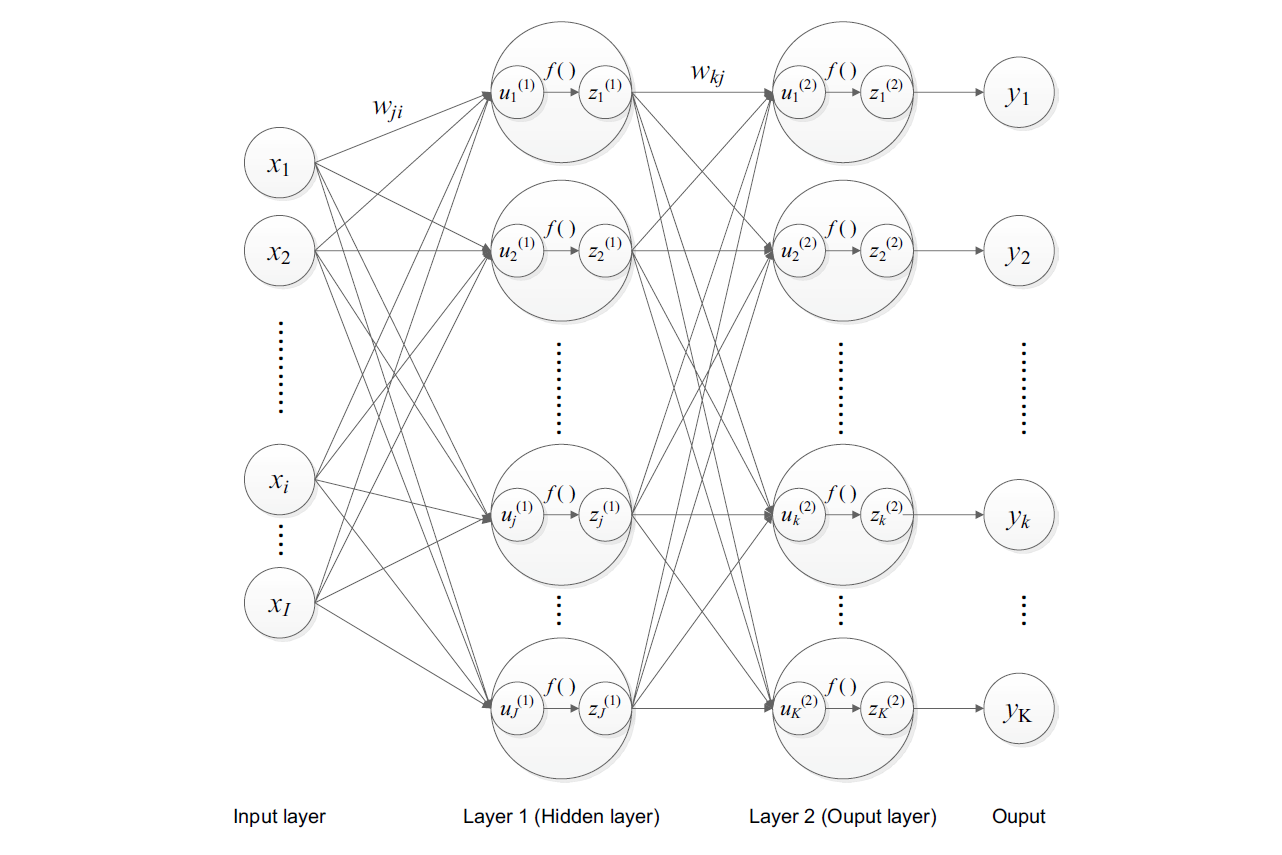
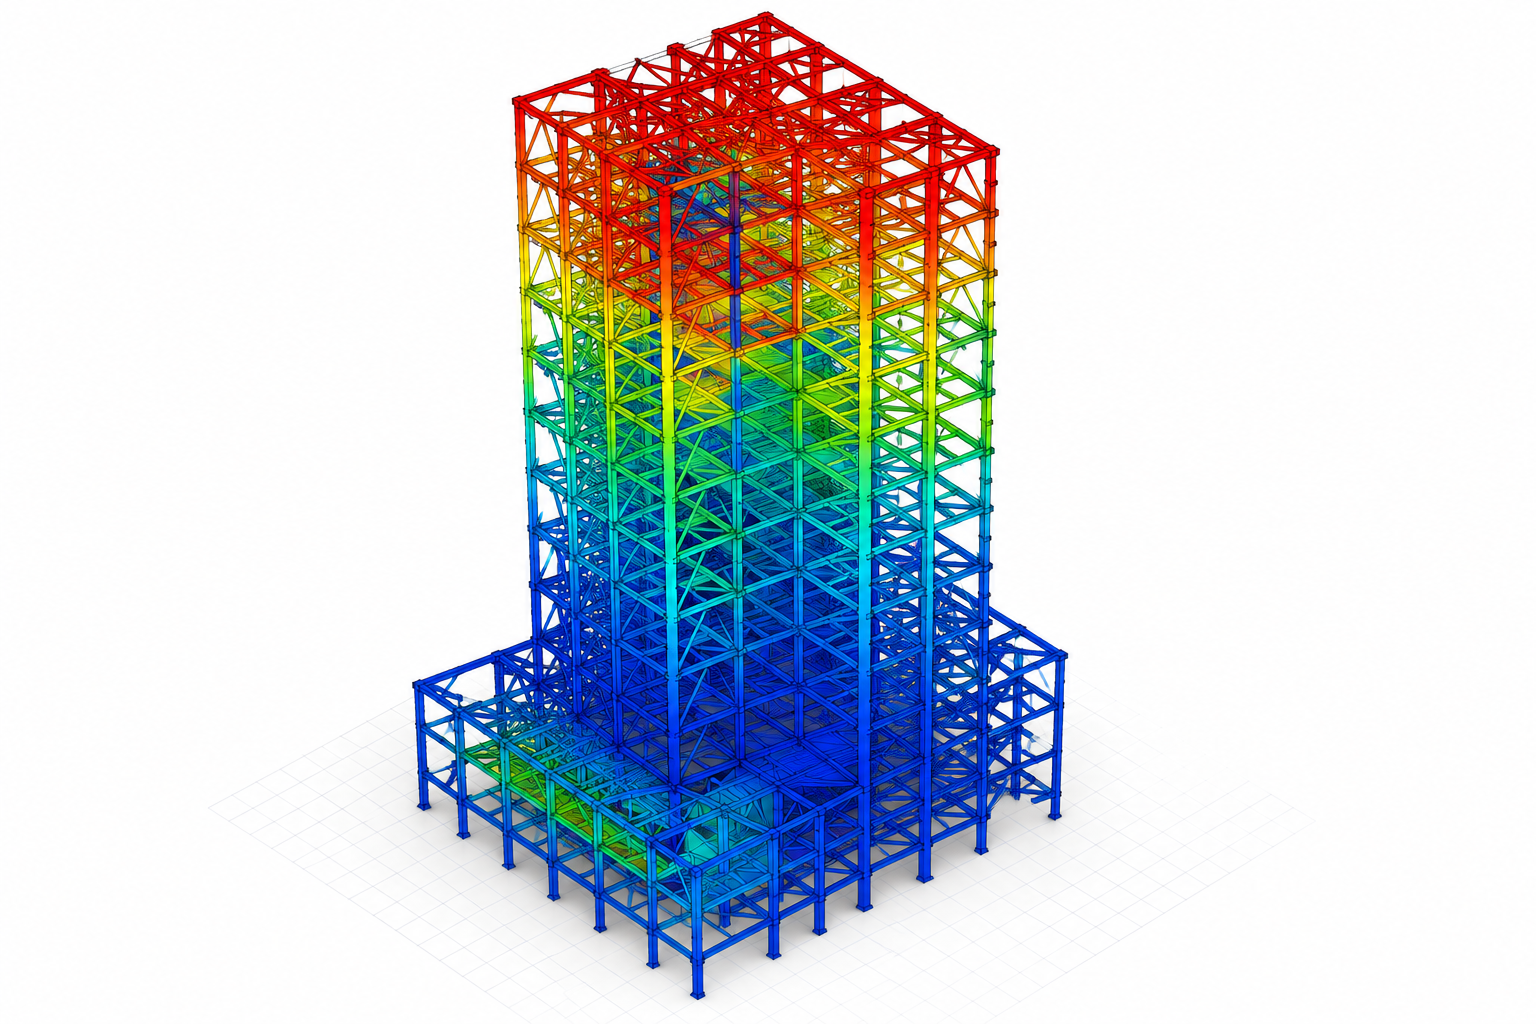
20260703

diff --git a/style.css b/style.css
@@ -6,7 +6,9 @@
   --ink:#1a2229;        /* 본문 텍스트 */
   --ink-soft:#54636e;   /* 보조 텍스트 */
   --ink-mute:#8a97a1;   /* 흐린 텍스트 */
-  --accent:#1d3c4f;     /* 포인트(네이비) */
+  --brand:#0f5ee0;      /* 브랜드 블루 (로고색) */
+  --brand-deep:#0e52c4; /* 짙은 블루 (호버) */
+  --accent:#0f5ee0;     /* 포인트 (로고 블루) */
   --line:#e5eaee;       /* 경계선 */
   --surf:#f5f7f9;       /* 옅은 배경 */
   --white:#fff;
@@ -44,7 +46,7 @@ header{
   display:flex;align-items:center;justify-content:space-between;gap:2rem;
 }
 .logo{display:flex;align-items:center;text-decoration:none;flex-shrink:0}
-.logo img{height:42px}
+.logo img{height:38px;width:auto}
 .nav-list{display:flex;gap:.35rem;list-style:none;align-items:center}
 .nav-list a{
   text-decoration:none;color:var(--ink-soft);
@@ -119,6 +121,13 @@ section.alt{background:var(--surf)}
 .sec-head{margin-bottom:2rem}
 .sec-head h2{font-size:clamp(1.5rem,2.8vw,2.3rem);font-weight:700;
   letter-spacing:-.02em;color:var(--ink)}
+/* 로고에서 따온 사각형 불릿 모티프 */
+.sec-head h2::before{content:"";display:inline-block;
+  width:.38em;height:.38em;background:var(--brand);border-radius:2px;
+  margin-right:.5rem;vertical-align:.12em}
+.ph h1::before{content:"";display:inline-block;
+  width:.34em;height:.34em;background:var(--brand);border-radius:2px;
+  margin-right:.45rem;vertical-align:.16em}
 .sec-head .more{float:right;font-size:.9rem;color:var(--ink-mute);
   text-decoration:none;font-weight:500;margin-top:.4rem}
 .sec-head .more:hover{color:var(--accent)}
@@ -142,8 +151,19 @@ section.alt{background:var(--surf)}
 .btn-o:hover{border-color:var(--accent);color:var(--accent)}
 
 /* ── 소개 블록 ── */
-.about p{color:var(--ink-soft);font-size:1.05rem;margin-bottom:1rem;max-width:70ch}
+.about{display:grid;grid-template-columns:minmax(0,1fr) auto;gap:clamp(2rem,5vw,4.5rem);align-items:center}
+.about p{color:var(--ink-soft);font-size:1.05rem;margin-bottom:1rem;max-width:none}
 .about p.lead{color:var(--ink);font-size:1.15rem;font-weight:500}
+.about p{text-wrap:pretty}
+/* 넓은 화면에선 문장마다 줄바꿈, 모바일에선 자연스럽게 이어짐 */
+br.s-break{display:none}
+@media(min-width:721px){br.s-break{display:inline}}
+.about-mark{flex-shrink:0}
+.about-mark img{width:clamp(130px,15vw,190px);height:auto;border-radius:16px}
+@media(max-width:720px){
+  .about{grid-template-columns:1fr}
+  .about-mark{display:none}
+}
 .tags{display:flex;flex-wrap:wrap;gap:.4rem;margin-top:1.5rem}
 .tag{font-size:.82rem;padding:.3rem .8rem;border-radius:20px;
   background:var(--surf);border:1px solid var(--line);color:var(--ink-soft)}
@@ -154,13 +174,16 @@ section.alt{background:var(--surf)}
 @media(max-width:820px){.grid-3{grid-template-columns:1fr}.grid-2{grid-template-columns:1fr}}
 .card{border:1px solid var(--line);border-radius:var(--radius);
   padding:1.6rem;background:var(--white);transition:.2s}
-.card:hover{border-color:#cdd8df;box-shadow:0 6px 20px rgba(29,60,79,.06)}
+.card:hover{border-color:#c3d4f2;box-shadow:0 6px 20px rgba(15,94,224,.08)}
 .card .num{font-size:.8rem;font-weight:700;color:var(--accent);
   letter-spacing:.05em;margin-bottom:.7rem}
 .card h3{font-size:1.1rem;font-weight:700;margin-bottom:.6rem;letter-spacing:-.01em}
 .card p{color:var(--ink-soft);font-size:.97rem}
-.card ul{margin-top:.9rem;padding-left:1.1rem;color:var(--ink-soft);font-size:.92rem}
+.card ul{margin-top:.9rem;padding-left:0;list-style:none;color:var(--ink-soft);font-size:.92rem}
 .card ul li{margin-bottom:.3rem}
+.card ul li::before{content:"";display:inline-block;
+  width:.3em;height:.3em;background:var(--brand);border-radius:1px;
+  margin-right:.5rem;vertical-align:.15em}
 .card-img{margin:-1.6rem -1.6rem 1.3rem;aspect-ratio:3/2;overflow:hidden;
   border-radius:var(--radius) var(--radius) 0 0;background:#fff}
 .card-img img{width:100%;height:100%;object-fit:cover}
@@ -236,6 +259,9 @@ section.alt{background:var(--surf)}
   color:var(--ink-mute);margin:1.8rem 0 .7rem;font-weight:700}
 .prof ul{list-style:none}
 .prof ul li{padding:.35rem 0;color:var(--ink-soft);border-bottom:1px solid var(--line)}
+.prof ul li::before{content:"";display:inline-block;
+  width:.32em;height:.32em;background:var(--brand);border-radius:1px;
+  margin-right:.55rem;vertical-align:.15em}
 .prof .links{display:flex;flex-wrap:wrap;gap:.7rem;margin-top:.7rem}
 .prof .links a{text-decoration:none;font-size:.9rem;color:var(--accent);
   border:1px solid var(--line);border-radius:8px;padding:.45rem .9rem}

diff --git a/en/projects.html b/en/projects.html
@@ -8,6 +8,7 @@
 <link rel="preconnect" href="https://fonts.gstatic.com" crossorigin>
 <link href="https://fonts.googleapis.com/css2?family=Manrope:wght@500;600;700;800&family=Noto+Sans:wght@300;400;500;700;900&family=Noto+Sans+KR:wght@300;400;500;700;900&display=swap" rel="stylesheet">
 <link rel="stylesheet" href="../style.css">
+<link rel="icon" type="image/png" href="../images/logo-bullet.png">
 </head>
 <body>
 <header><div class="nav-box">
@@ -19,6 +20,12 @@
 <div class="drawer"><ul><li><a href="research.html">Research</a></li><li><a href="publications.html">Publications</a></li><li><a href="professor.html">Professor</a></li><li><a href="people.html">People</a></li><li><a href="projects.html" class="on">Projects</a></li><li><a href="news.html">News</a></li><li><a href="contact.html">Contact</a></li></ul></div>
 <div class="ph"><div class="box"><h1>Projects</h1><p>Selected research and development projects</p></div></div>
 <section class="sec"><div class="box">
+  <div class="item">
+    <div class="meta">Ongoing · Participating</div>
+    <h3>Sensor- and Image-Based Prediction and Early-Warning System</h3>
+    <p>As a participating team in a research project on the safety of cultural-heritage structures, we are developing sensor- and image-based prediction models and an early-warning system.</p>
+    <p class="field">Structural safety · Sensor &amp; image-based prediction · Early-warning system</p>
+  </div>
   <div class="item">
     <div class="meta">Ongoing</div>
     <h3>Robotic System for Efficient Structural Safety Inspection</h3>
@@ -33,8 +40,8 @@
   </div>
   <div class="item">
     <div class="meta">Completed</div>
-    <h3>Unitree G1 Edu Plus Basic Operation Guide &amp; Seminar</h3>
-    <p>We produced a basic operation guide for the Unitree G1 Edu Plus humanoid robot and held a technical seminar.</p>
+    <h3>Unitree G1 Edu Plus Control &amp; Operation Guide Development</h3>
+    <p>We built the control and operation environment for the Unitree G1 Edu Plus humanoid robot, developed an operation guide, and held a technical seminar.</p>
     <p class="field">Humanoid robots · AI robot operation · Technical training</p>
   </div>
 </div></section>

diff --git a/projects.html b/projects.html
@@ -8,6 +8,7 @@
 <link rel="preconnect" href="https://fonts.gstatic.com" crossorigin>
 <link href="https://fonts.googleapis.com/css2?family=Noto+Sans+KR:wght@300;400;500;700;900&display=swap" rel="stylesheet">
 <link rel="stylesheet" href="style.css">
+<link rel="icon" type="image/png" href="images/logo-bullet.png">
 </head>
 <body>
 <header><div class="nav-box">
@@ -19,6 +20,12 @@
 <div class="drawer"><ul><li><a href="research.html">연구분야</a></li><li><a href="publications.html">논문</a></li><li><a href="professor.html">교수</a></li><li><a href="people.html">연구원</a></li><li><a href="projects.html" class="on">프로젝트</a></li><li><a href="news.html">소식</a></li><li><a href="contact.html">오시는 길</a></li></ul></div>
 <div class="ph"><div class="box"><h1>프로젝트</h1><p>주요 연구 및 개발 프로젝트</p></div></div>
 <section class="sec"><div class="box">
+  <div class="item">
+    <div class="meta">진행 중 · 참여</div>
+    <h3>센서·이미지 기반 구조물 예측 및 경보 시스템 연구</h3>
+    <p>문화유산 구조물의 안전을 위한 연구 과제에 참여하여, 센서·이미지 데이터 기반의 예측 모델과 경보 시스템을 연구하고 있습니다.</p>
+    <p class="field">구조 안전 · 센서·이미지 기반 예측 · 경보 시스템</p>
+  </div>
   <div class="item">
     <div class="meta">진행 중</div>
     <h3>구조물 안전점검 효율화를 위한 로봇 개발</h3>
@@ -33,8 +40,8 @@
   </div>
   <div class="item">
     <div class="meta">완료</div>
-    <h3>Unitree G1 Edu Plus 기본 조작 가이드 제작 및 세미나</h3>
-    <p>Unitree G1 Edu Plus 휴머노이드 로봇 기본 조작 가이드 제작 및 기술 세미나 진행</p>
+    <h3>Unitree G1 Edu Plus 구동·제어 및 운용 가이드 개발</h3>
+    <p>Unitree G1 Edu Plus 휴머노이드 로봇의 구동·제어 환경을 구축하고 운용 가이드를 개발, 기술 세미나를 진행</p>
     <p class="field">휴머노이드 로봇 · AI 로봇 운용 · 기술 교육</p>
   </div>
 </div></section>

diff --git a/en/index.html b/en/index.html
@@ -8,6 +8,7 @@
 <link rel="preconnect" href="https://fonts.gstatic.com" crossorigin>
 <link href="https://fonts.googleapis.com/css2?family=Manrope:wght@500;600;700;800&family=Noto+Sans:wght@300;400;500;700;900&family=Noto+Sans+KR:wght@300;400;500;700;900&display=swap" rel="stylesheet">
 <link rel="stylesheet" href="../style.css">
+<link rel="icon" type="image/png" href="../images/logo-bullet.png">
 </head>
 <body>
 <header><div class="nav-box">
@@ -44,9 +45,12 @@
 </div></section>
 
 <section class="sec alt"><div class="box about">
-  <div class="sec-head"><h2>About the Lab</h2></div>
-  <p class="lead">Developing data-driven models that add artificial intelligence to structural analysis and design.</p>
-  <p>Grounded in deep learning and robotics, our research spans the entire lifecycle of construction.</p>
+  <div class="about-text">
+    <div class="sec-head"><h2>About the Lab</h2></div>
+    <p class="lead">Rethinking structural analysis and design with artificial intelligence.</p>
+    <p>We use deep learning to approximate complex structural analyses quickly and accurately, and to automatically search for optimal designs.<br class="s-break"> Extending to construction robotics, we study the entire process of construction on a foundation of data.</p>
+  </div>
+  <div class="about-mark"><img src="../images/logo-bullet.png" alt="AISE Lab"></div>
 </div></section>
 
 <section class="sec"><div class="box">

diff --git a/index.html b/index.html
@@ -8,6 +8,7 @@
 <link rel="preconnect" href="https://fonts.gstatic.com" crossorigin>
 <link href="https://fonts.googleapis.com/css2?family=Noto+Sans+KR:wght@300;400;500;700;900&display=swap" rel="stylesheet">
 <link rel="stylesheet" href="style.css">
+<link rel="icon" type="image/png" href="images/logo-bullet.png">
 </head>
 <body>
 <header><div class="nav-box">
@@ -44,9 +45,12 @@
 </div></section>
 
 <section class="sec alt"><div class="box about">
-  <div class="sec-head"><h2>연구실 소개</h2></div>
-  <p class="lead">구조 해석과 설계에 인공지능을 더한 데이터 기반 모델 개발</p>
-  <p>딥러닝과 로보틱스를 바탕으로 건설의 생애주기 전부를 아우르는 연구</p>
+  <div class="about-text">
+    <div class="sec-head"><h2>연구실 소개</h2></div>
+    <p class="lead">인공지능으로 구조의 해석과 설계를 다시 풀어갑니다</p>
+    <p>복잡한 구조 해석을 딥러닝으로 빠르고 정확하게 근사하고, 최적의 설계를 자동으로 탐색합니다.<br class="s-break"> 나아가 건설 로보틱스까지, 데이터를 기반으로 건설의 전 과정을 연구합니다.</p>
+  </div>
+  <div class="about-mark"><img src="images/logo-bullet.png" alt="AISE 연구실"></div>
 </div></section>
 
 <section class="sec"><div class="box">

diff --git a/en/news.html b/en/news.html
@@ -8,6 +8,7 @@
 <link rel="preconnect" href="https://fonts.gstatic.com" crossorigin>
 <link href="https://fonts.googleapis.com/css2?family=Manrope:wght@500;600;700;800&family=Noto+Sans:wght@300;400;500;700;900&family=Noto+Sans+KR:wght@300;400;500;700;900&display=swap" rel="stylesheet">
 <link rel="stylesheet" href="../style.css">
+<link rel="icon" type="image/png" href="../images/logo-bullet.png">
 </head>
 <body>
 <header><div class="nav-box">
@@ -22,14 +23,12 @@
   <div class="news-item">
     <div class="news-date">Jan 28, 2026</div>
     <div class="news-body"><h3>Website Renewal Launched</h3>
-      <p>The official AISE Lab website has been newly launched. We will continue to share our research achievements and activities.</p>
-      <span class="badge">Notice</span></div>
+      <p>The official AISE Lab website has been newly launched. We will continue to share our research achievements and activities.</p></div>
   </div>
   <div class="news-item">
     <div class="news-date">Dec 19, 2025</div>
     <div class="news-body"><h3>AISE Lab Founded</h3>
-      <p>AISE Lab was officially established at Sejong University.</p>
-      <span class="badge">Milestone</span></div>
+      <p>AISE Lab was officially established at Sejong University.</p></div>
   </div>
 </div></section>
 <footer><div class="box">

diff --git a/news.html b/news.html
@@ -8,6 +8,7 @@
 <link rel="preconnect" href="https://fonts.gstatic.com" crossorigin>
 <link href="https://fonts.googleapis.com/css2?family=Noto+Sans+KR:wght@300;400;500;700;900&display=swap" rel="stylesheet">
 <link rel="stylesheet" href="style.css">
+<link rel="icon" type="image/png" href="images/logo-bullet.png">
 </head>
 <body>
 <header><div class="nav-box">
@@ -22,14 +23,12 @@
   <div class="news-item">
     <div class="news-date">2026. 01. 28</div>
     <div class="news-body"><h3>홈페이지 리뉴얼 오픈</h3>
-      <p>AISE 연구실 공식 홈페이지가 새롭게 오픈되었습니다. 연구 성과와 활동을 지속적으로 공유할 예정입니다.</p>
-      <span class="badge">공지</span></div>
+      <p>AISE 연구실 공식 홈페이지가 새롭게 오픈되었습니다. 연구 성과와 활동을 지속적으로 공유할 예정입니다.</p></div>
   </div>
   <div class="news-item">
     <div class="news-date">2025. 12. 19</div>
     <div class="news-body"><h3>AISE 연구실 창설</h3>
-      <p>AISE Lab이 세종대학교에 공식 출범하였습니다.</p>
-      <span class="badge">이정표</span></div>
+      <p>AISE Lab이 세종대학교에 공식 출범하였습니다.</p></div>
   </div>
 </div></section>
 <footer><div class="box">

diff --git a/en/people.html b/en/people.html
@@ -8,6 +8,7 @@
 <link rel="preconnect" href="https://fonts.gstatic.com" crossorigin>
 <link href="https://fonts.googleapis.com/css2?family=Manrope:wght@500;600;700;800&family=Noto+Sans:wght@300;400;500;700;900&family=Noto+Sans+KR:wght@300;400;500;700;900&display=swap" rel="stylesheet">
 <link rel="stylesheet" href="../style.css">
+<link rel="icon" type="image/png" href="../images/logo-bullet.png">
 </head>
 <body>
 <header><div class="nav-box">
@@ -34,6 +35,12 @@
       <div class="role">Undergraduate Researcher · Architectural Engineering</div>
       <p>AI-based construction robotics</p>
       <p>24011578@sju.ac.kr</p>
+    </div>
+    <div class="person">
+      <img src="../images/G1.png" alt="G1">
+      <h3>G1</h3>
+      <div class="role">Resident Researcher</div>
+      <p>Humanoid</p>
     </div>
   </div>
   <p style="color:var(--ink-soft);font-size:.97rem;margin-top:2.5rem;max-width:760px">AISE Lab welcomes new members interested in artificial intelligence, structural engineering, and robotics.</p>

diff --git a/people.html b/people.html
@@ -8,6 +8,7 @@
 <link rel="preconnect" href="https://fonts.gstatic.com" crossorigin>
 <link href="https://fonts.googleapis.com/css2?family=Noto+Sans+KR:wght@300;400;500;700;900&display=swap" rel="stylesheet">
 <link rel="stylesheet" href="style.css">
+<link rel="icon" type="image/png" href="images/logo-bullet.png">
 </head>
 <body>
 <header><div class="nav-box">
@@ -34,6 +35,12 @@
       <div class="role">학부 연구원 · 건축공학과</div>
       <p>AI 기반 건설로봇 운용</p>
       <p>24011578@sju.ac.kr</p>
+    </div>
+    <div class="person">
+      <img src="images/G1.png" alt="G1">
+      <h3>G1</h3>
+      <div class="role">상근 연구원</div>
+      <p>휴머노이드</p>
     </div>
   </div>
   <p style="color:var(--ink-soft);font-size:.97rem;margin-top:2.5rem;max-width:760px">AISE 연구실은 인공지능·구조공학·로보틱스에 관심 있는 새로운 구성원을 환영합니다.</p>

diff --git a/en/contact.html b/en/contact.html
@@ -8,6 +8,7 @@
 <link rel="preconnect" href="https://fonts.gstatic.com" crossorigin>
 <link href="https://fonts.googleapis.com/css2?family=Manrope:wght@500;600;700;800&family=Noto+Sans:wght@300;400;500;700;900&family=Noto+Sans+KR:wght@300;400;500;700;900&display=swap" rel="stylesheet">
 <link rel="stylesheet" href="../style.css">
+<link rel="icon" type="image/png" href="../images/logo-bullet.png">
 </head>
 <body>
 <header><div class="nav-box">

diff --git a/en/professor.html b/en/professor.html
@@ -8,6 +8,7 @@
 <link rel="preconnect" href="https://fonts.gstatic.com" crossorigin>
 <link href="https://fonts.googleapis.com/css2?family=Manrope:wght@500;600;700;800&family=Noto+Sans:wght@300;400;500;700;900&family=Noto+Sans+KR:wght@300;400;500;700;900&display=swap" rel="stylesheet">
 <link rel="stylesheet" href="../style.css">
+<link rel="icon" type="image/png" href="../images/logo-bullet.png">
 </head>
 <body>
 <header><div class="nav-box">

diff --git a/en/publications.html b/en/publications.html
@@ -8,6 +8,7 @@
 <link rel="preconnect" href="https://fonts.gstatic.com" crossorigin>
 <link href="https://fonts.googleapis.com/css2?family=Manrope:wght@500;600;700;800&family=Noto+Sans:wght@300;400;500;700;900&family=Noto+Sans+KR:wght@300;400;500;700;900&display=swap" rel="stylesheet">
 <link rel="stylesheet" href="../style.css">
+<link rel="icon" type="image/png" href="../images/logo-bullet.png">
 </head>
 <body>
 <header><div class="nav-box">
